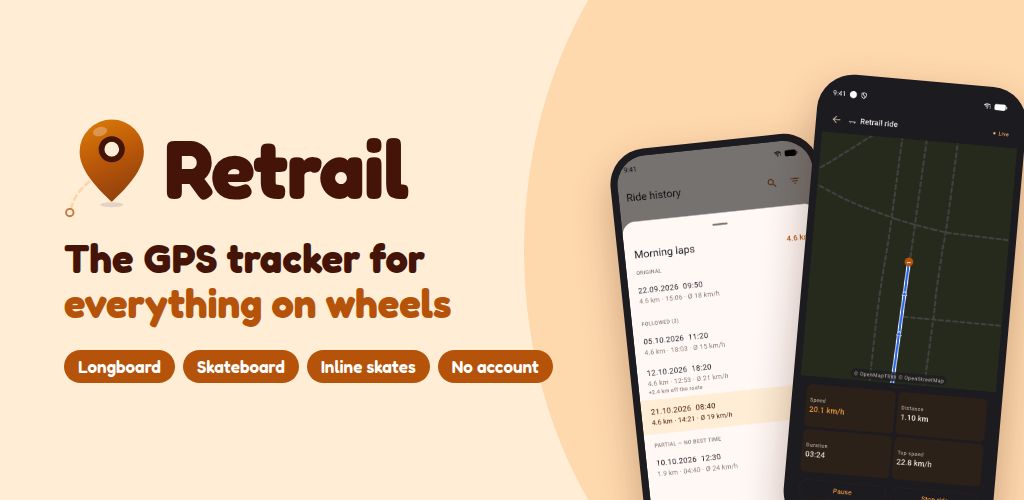
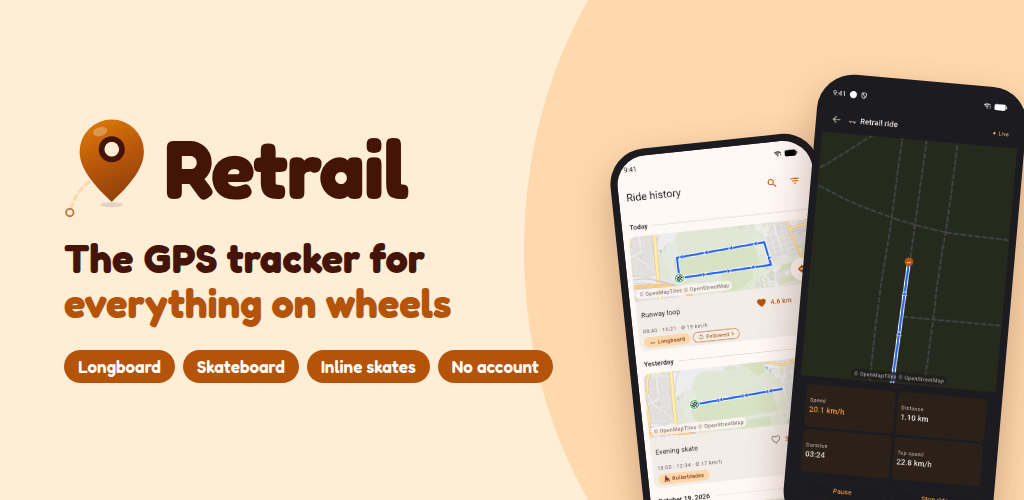
feat(store): light history instead of the comparison sheet in the feature graphic
Map previews read better than the text-heavy sheet at feature graphic size,
and light next to the dark ride shows both themes.

Changed region(s): [[0.5938, 0.27, 0.8125, 1.0]]

diff --git a/store/play/feature_graphic.html b/store/play/feature_graphic.html
@@ -65,7 +65,7 @@
     };
     const lang = new URLSearchParams(location.search).get('lang') || 'en';
     document.documentElement.lang = lang;
-    document.getElementById('img1').src = `screens/raw/${lang}_light_08_compare.png`;
+    document.getElementById('img1').src = `screens/raw/${lang}_light_04_history.png`;
     document.getElementById('img2').src = `screens/raw/${lang}_dark_07_track.png`;
     document.getElementById('tagline').innerHTML = copy[lang].tagline;
     document.getElementById('chips').innerHTML =

diff --git a/docs/play-store.md b/docs/play-store.md
@@ -260,7 +260,7 @@ Made with `tool/render_store_graphics.sh` (sources and output in `store/play/`):
 | Asset | File | Spec |
 |---|---|---|
 | App icon | `store/play/icon_512.png` | 512 × 512 PNG, 32-bit, ≤ 1 MB — from `assets/branding/app_icon.png` |
-| Feature graphic | `store/play/feature_graphic_en.png`, `…_de.png` | 1024 × 500 PNG, no alpha — source `store/play/feature_graphic.html` (tagline + chips per language, two phones: comparison sheet + dark recording) |
+| Feature graphic | `store/play/feature_graphic_en.png`, `…_de.png` | 1024 × 500 PNG, no alpha — source `store/play/feature_graphic.html` (tagline + chips per language, two phones: light history + dark recording) |
 | Phone screenshots | `store/play/screenshots/<lang>/01_track.png` … `08_activities.png` (recording, best time of a followed route, follow, history, light + dark, detail, countdown, activities) | 8 per language, 1080 × 1920, tag + caption + subline, background and enlarged excerpt per shot in `store/play/screenshots.tsv`, frame `store/play/screenshot_frame.html` (Fredoka headings, cream / peach / dark backgrounds) |
 
 **How the screenshots are made** (no real location data anywhere):
